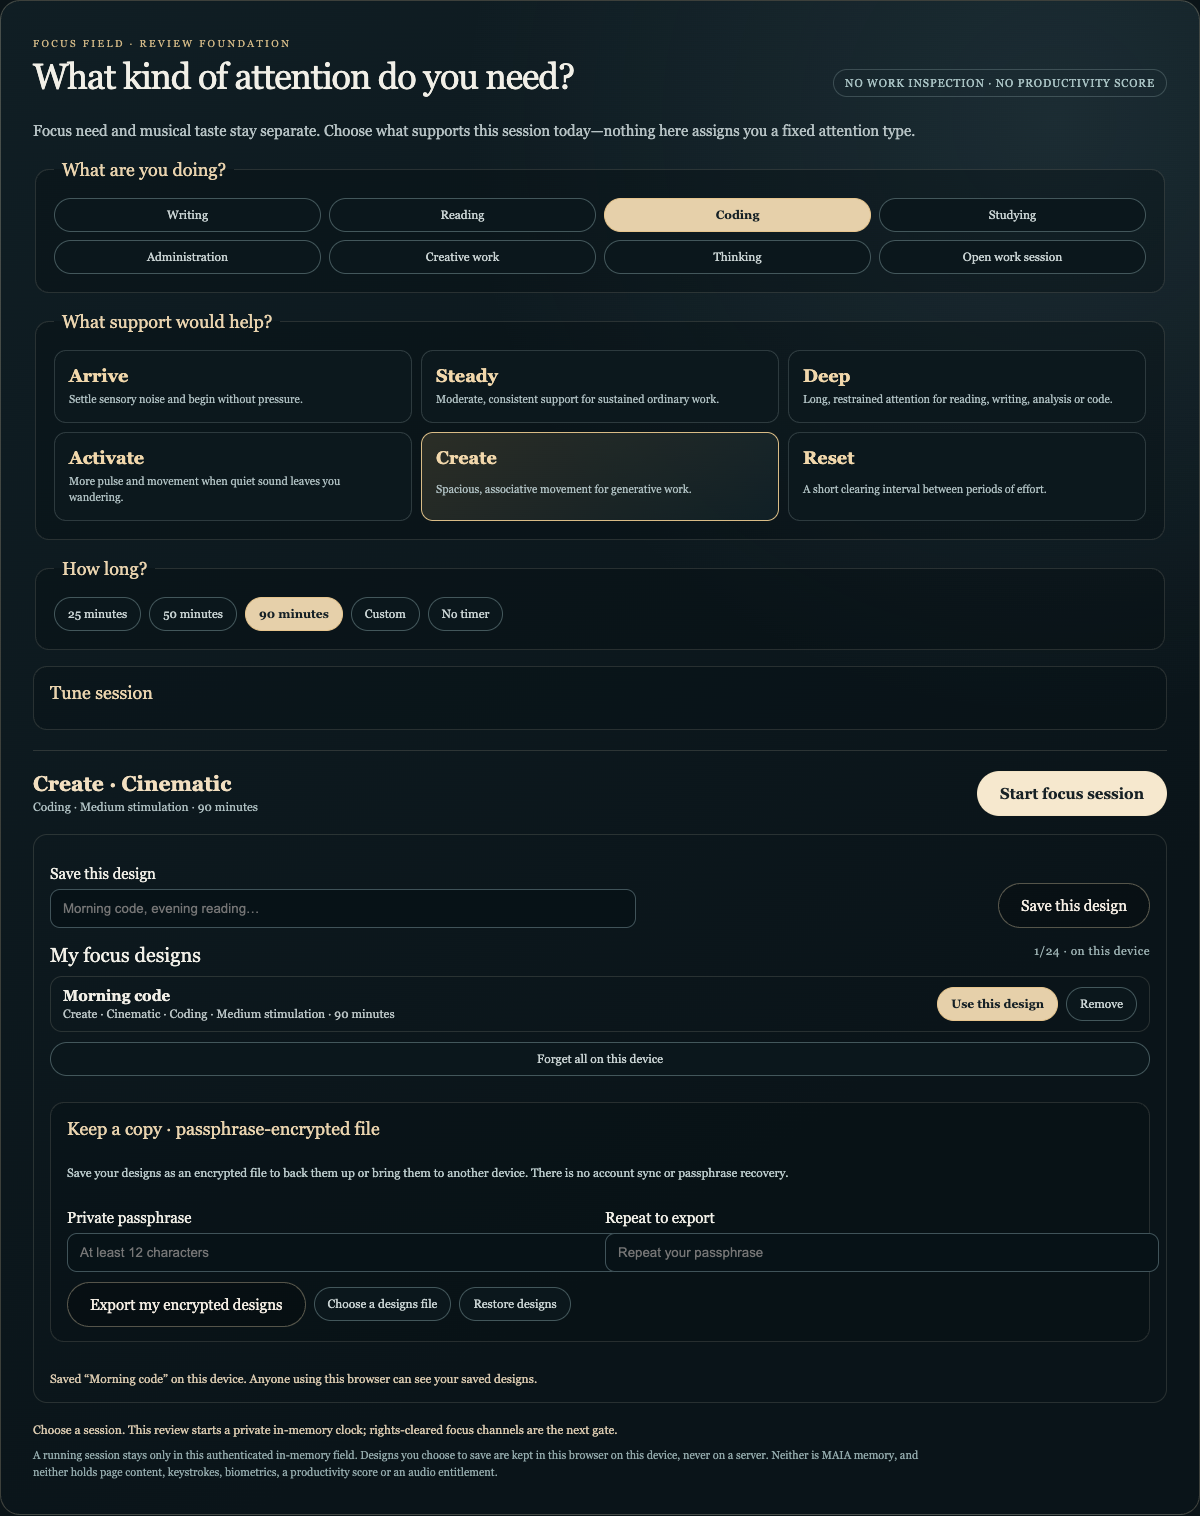
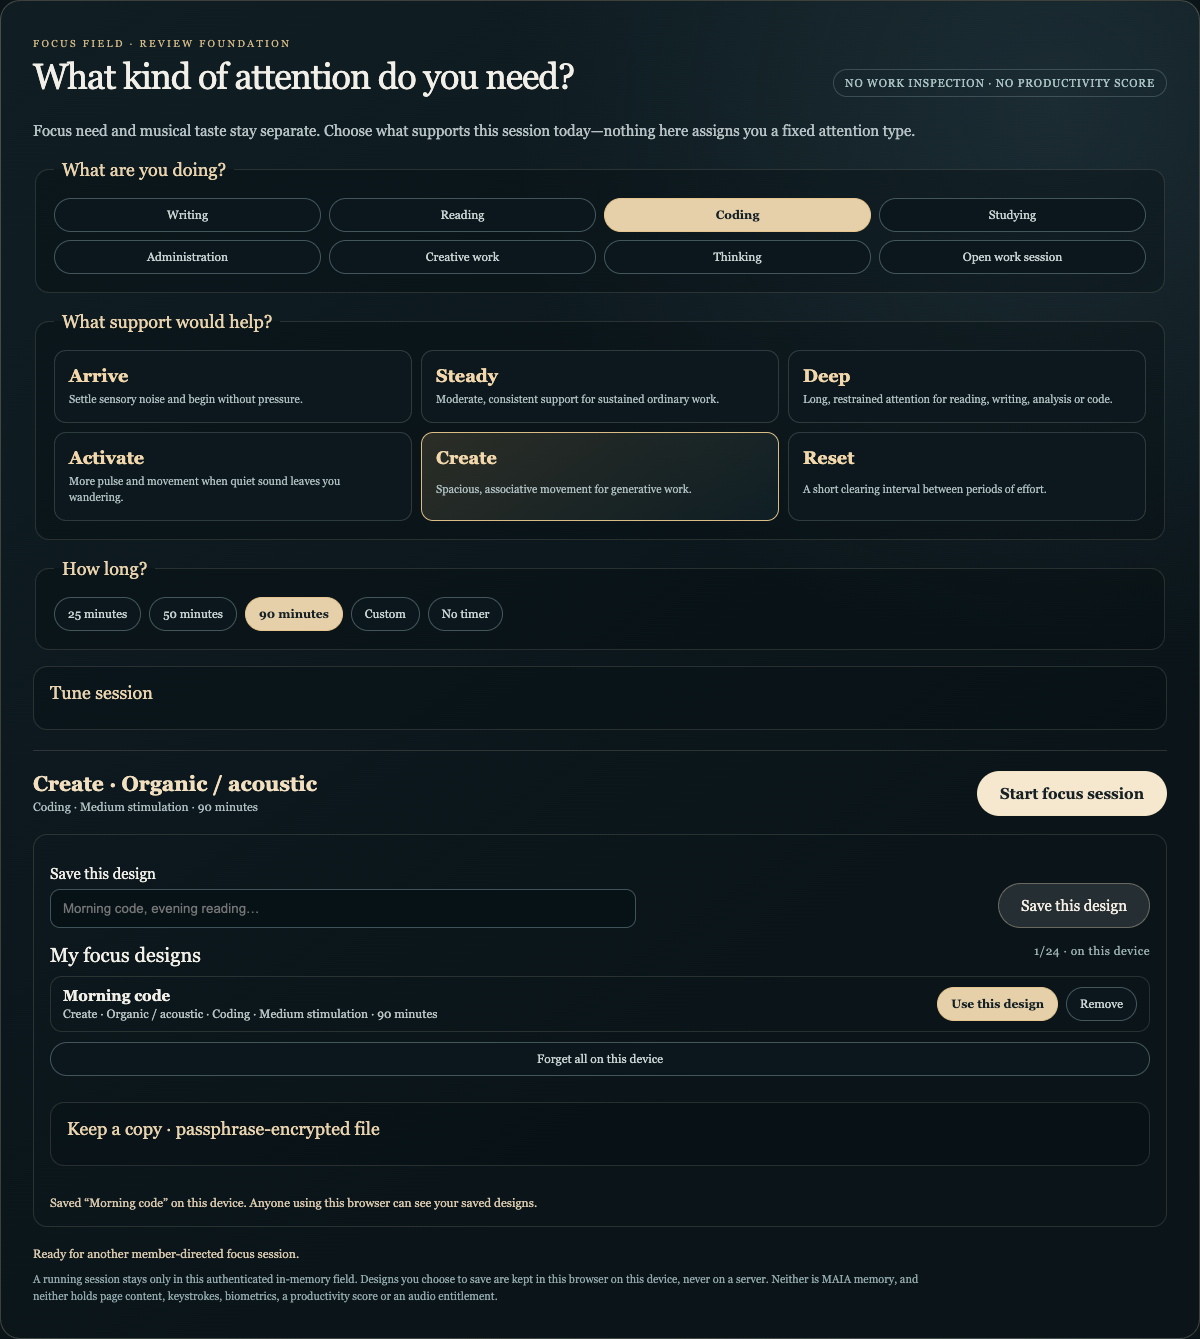
feat(listen): save a Focus design while a session runs
Save this design is also offered in the running-session view. It saves the
session's own plan, including any retune, and leaves the session running.

Founder 2026-11-19 on #1979: "Yes, during sessions".

diff --git a/components/listening/FocusFieldDesk.tsx b/components/listening/FocusFieldDesk.tsx
@@ -185,15 +185,18 @@ export default function FocusFieldDesk() {
     setMessage('The session changed without resetting its clock or task.');
   };
 
-  const saveDesign = () => {
+  // Saves the given choices: the desk's choices before a session, or the running session's own plan
+  // (including any retune) while one runs (founder, 2026-11-19: "Yes, during sessions").
+  const saveDesign = (from: { task: FocusTaskKind; focusNeed: FocusNeed; musicalWorld: FocusMusicalWorld; stimulation: FocusStimulation; duration: FocusDuration }, during = false) => {
     if (designs.length >= FOCUS_DESIGNS_MAX) { setDesignNote(`You can keep up to ${FOCUS_DESIGNS_MAX} designs. Remove one first.`); return; }
     if (typeof crypto === 'undefined' || typeof crypto.randomUUID !== 'function') { setDesignNote('Saving needs a secure browser context.'); return; }
     try {
       const design = newFocusDesign({
-        name: designName, task, focusNeed, musicalWorld, stimulation, duration,
+        name: designName, task: from.task, focusNeed: from.focusNeed, musicalWorld: from.musicalWorld,
+        stimulation: from.stimulation, duration: from.duration,
         id: `design-${crypto.randomUUID().replace(/-/g, '')}`, at: new Date(),
       });
-      keepDesigns([design, ...designs], `Saved “${design.name}” on this device. Anyone using this browser can see your saved designs.`);
+      keepDesigns([design, ...designs], `Saved “${design.name}” on this device${during ? '; it will be in My focus designs when you choose your next session' : ''}. Anyone using this browser can see your saved designs.`);
       setDesignName('');
     } catch (e) { setDesignNote(e instanceof Error ? e.message : 'This design could not be saved.'); }
   };
@@ -404,7 +407,8 @@ export default function FocusFieldDesk() {
                   onChange={event => setDesignName(event.target.value)}
                   placeholder="Morning code, evening reading…" />
               </label>
-              <button type="button" className={styles.secondary} onClick={saveDesign}
+              <button type="button" className={styles.secondary}
+                onClick={() => saveDesign({ task, focusNeed, musicalWorld, stimulation, duration })}
                 data-focus-design-save="true">Save this design</button>
             </div>
             <h3>My focus designs <span>{designs.length}/{FOCUS_DESIGNS_MAX}{designsOnDevice ? ' · on this device' : ' · this visit only'}</span></h3>
@@ -481,6 +485,19 @@ export default function FocusFieldDesk() {
                   </select>
                 </label>
               </div>
+              <div className={styles.focusDesignSave} data-focus-design-during="true">
+                <label className={styles.focusTextLabel} htmlFor="focus-design-name-during">
+                  Save this design
+                  <input id="focus-design-name-during" maxLength={60} value={designName}
+                    onChange={event => setDesignName(event.target.value)}
+                    placeholder="Name what is working right now" />
+                </label>
+                <button type="button" className={styles.secondary} data-focus-design-save-during="true"
+                  onClick={() => saveDesign({ task: session.plan.task, focusNeed: session.plan.focusNeed,
+                    musicalWorld: session.plan.musicalWorld, stimulation: session.plan.stimulation,
+                    duration: session.plan.duration }, true)}>Save this design</button>
+              </div>
+              {designNote && <p className={styles.focusStatus} role="status" data-focus-design-note="true">{designNote}</p>}
               <div className={styles.focusActions}>
                 <p className={styles.focusExplanation}>
                   Pause and Stop for this session are in the player below.

diff --git a/docs/design/contracts/sound-field.md b/docs/design/contracts/sound-field.md
@@ -134,10 +134,11 @@ No download, offline Cabin, public broadcast, shared session, unbounded remix, s
 - **What it is for.** A member who finds a Focus design that works can name it, keep it, and return to it, with a list they can add to and remove from.
 - **What a design holds.** Exactly the existing `SOULLAB_FOCUS_FIELD_COMBINATION_V1` choices: name, activity, support, musical world, stimulation and duration. Never the private task label, feedback, session history or anything heard.
 - **Where it lives.** In this browser on this device (`soullab.listen.focus.designs.v1`, at most 24), never on a server. The desk says so, and that anyone using this browser can see them. If the browser blocks storage, designs last for this visit only and the desk says that instead.
+- **Save during a session.** While a session runs, Save this design saves that session's own plan, including any retune of world or stimulation, and leaves the session running; the design is in My focus designs for the next session (founder, 2026-11-19: "Yes, during sessions").
 - **Use this design** fills in every choice and starts nothing: no session and no sound until Start. **Remove** deletes one; **Forget all on this device** deletes the list after a confirmation.
 - **Keep a copy.** The list can be saved as a passphrase-encrypted file (PBKDF2-SHA256 600,000 rounds, AES-256-GCM), following the Shelf's design, to back it up or move it to another device. There is no recovery, and an unlocked file is revalidated before use.
 - **The boundary note** now reads: a running session stays only in memory; designs the member chooses to save are kept in this browser, never on a server.
-- **Verification.** 2026-11-19, `tests/listening/focus_designs.test.mjs` 8/8 and `tests/listening/focus_designs_browser_witness.cjs` 33/33: the real FocusFieldDesk inside the real PersistentListeningProvider in local Chrome at 1440 and 390 px. Save, reload, Use (every choice restored, no session, no AudioContext), Remove, Forget, an encrypted export that hides names and choices, restore, a refused wrong passphrase, and the blocked-storage fallback. Screenshots: `docs/design/contracts/screenshots/sound-field-focus-designs-desktop.png` and `-mobile.png`. This is a fixture witness, not an authenticated walk of /listen and not the founder's use.
+- **Verification.** 2026-11-19, `tests/listening/focus_designs.test.mjs` 8/8 and `tests/listening/focus_designs_browser_witness.cjs` 39/39: the real FocusFieldDesk inside the real PersistentListeningProvider in local Chrome at 1440 and 390 px. Save, reload, Use (every choice restored, no session, no AudioContext), Remove, Forget, an encrypted export that hides names and choices, restore, a refused wrong passphrase, a mid-session save that keeps a retuned world and leaves the session running, and the blocked-storage fallback. Screenshots: `docs/design/contracts/screenshots/sound-field-focus-designs-desktop.png` and `-mobile.png`. This is a fixture witness, not an authenticated walk of /listen and not the founder's use.
 - **Not included.** The "Sound for this session" choice is not part of the combination format and is not saved.
 
 ## Level in "Sound for this session" (founder request 2026-11-19, #1979)
